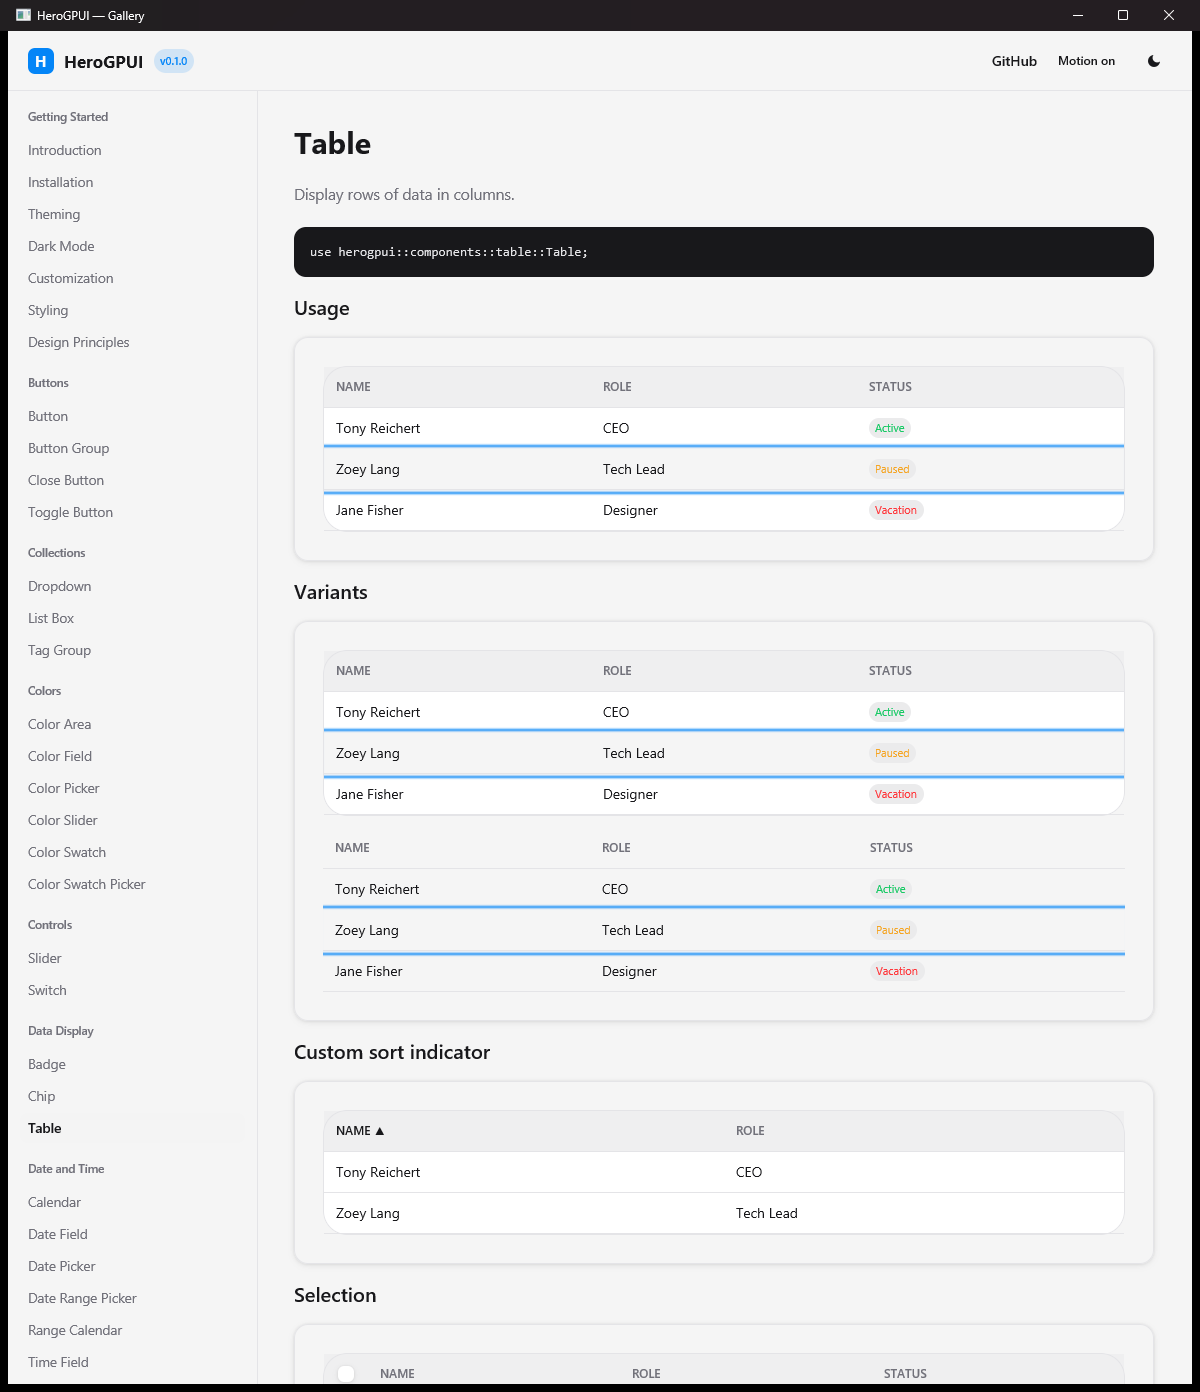
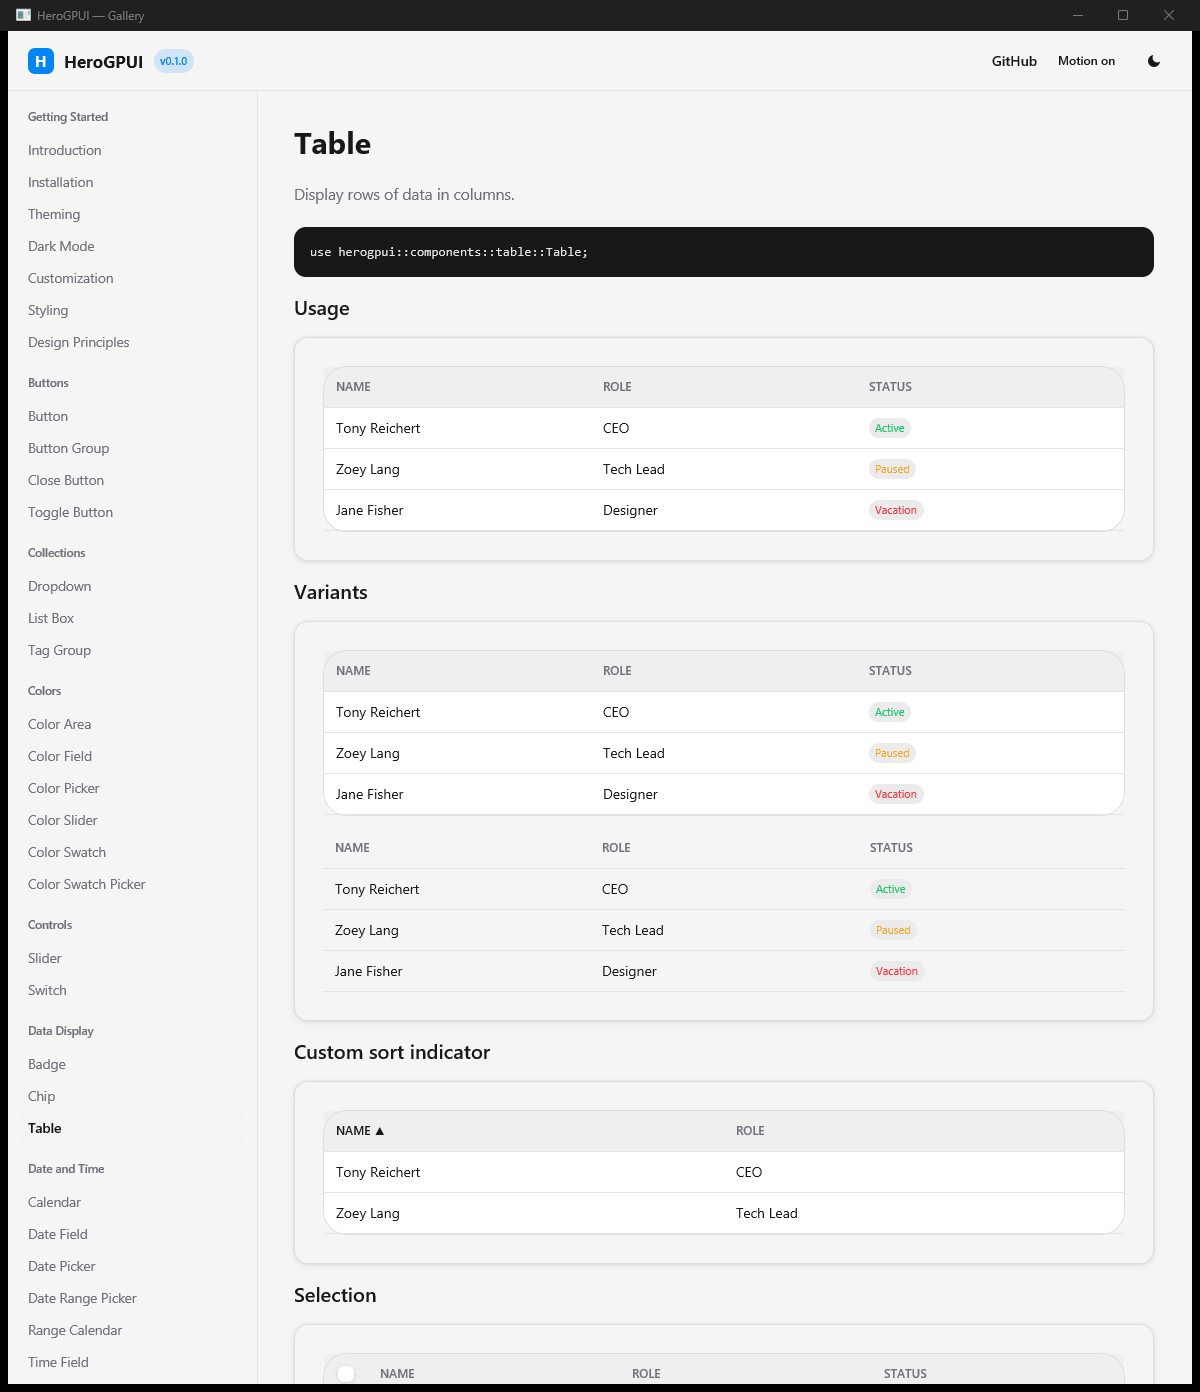
Sort a table from the keyboard, and ring its cells the way v3 does
A sortable column header had a click listener and no focus handle, so sorting
was mouse-only: gpui fires a *focused* element's click listeners for Enter and
Space, and there was nothing to focus. Each sortable header is a tab stop now.
v3's grid roves one stop across its cells; this port gives each sortable header
its own, which is the part that matters.

The ring exposed the other half. `status-focused` draws *outside* the element,
and the first attempt filled the whole header solid accent -- a header cell has
no background of its own, so the ring's spread showed straight through it. v3
does not use `status-focused` here: `.table__cell` and `.table__column` are
`shadow-[inset_0_0_0_2px_var(--focus)]` with `rounded-lg`, and a focused row
draws that ring split across its cells (three-sided on the first and last) so it
reads as one continuous outline inside the row. gpui has no inset shadow and a
border would move the content, so `util::inset_focus_ring` is an absolutely
positioned 2px border to hang inside the element. The focused row uses it too,
which is what v3 draws and what the row's outset ring was not.

Verified by driving the app: Enter on the focused Name header moves the demo
from "Sorted by Name Ascending" to Descending with a proper inset ring, and
tabbing into the first table still rings the row the cursor is on.

diff --git a/crates/herogpui-components/src/table.rs b/crates/herogpui-components/src/table.rs
@@ -542,6 +542,35 @@ impl RenderOnce for Table {
             .read(cx)
             .filter(|_| table_focus.is_focused(window) && crate::util::focus_visible(cx));
 
+        // A sortable header had a click listener and no focus, so sorting was
+        // mouse-only. v3's grid roves one tab stop across its cells; this port
+        // gives each sortable header its own stop, which is the part that
+        // matters. Created before the theme: `use_keyed_state` takes `cx`
+        // mutably and `cx.colors()` holds a borrow.
+        let sortable = self.on_sort_change.is_some();
+        let sort_focus: Vec<Option<gpui::FocusHandle>> = self
+            .columns
+            .iter()
+            .map(|c| c.allows_sorting && sortable)
+            .collect::<Vec<_>>()
+            .into_iter()
+            .enumerate()
+            .map(|(i, is_sortable)| {
+                is_sortable.then(|| {
+                    crate::util::tab_stop_handle(
+                        gpui::ElementId::Name(format!("{}-sort-{i}-focus", self.id).into()),
+                        window,
+                        cx,
+                    )
+                })
+            })
+            .collect();
+        let ring_visible = crate::util::focus_visible(cx);
+        let sort_focused: Vec<bool> = sort_focus
+            .iter()
+            .map(|h| h.as_ref().is_some_and(|h| h.is_focused(window)) && ring_visible)
+            .collect();
+
         let resizable = self.columns.iter().any(|c| c.allows_resizing);
         let colors = cx.colors();
         // Copies of the tokens the tail needs: the row builder borrows `cx`
@@ -673,7 +702,7 @@ impl RenderOnce for Table {
                     let next =
                         SortDescriptor::next(self.sort_descriptor.as_ref(), column.label.clone());
                     let hover = colors.default.soft();
-                    gpui::div()
+                    let header_cell = gpui::div()
                         .id(gpui::ElementId::Name(
                             format!("table-sort-{}", column.label).into(),
                         ))
@@ -681,8 +710,21 @@ impl RenderOnce for Table {
                         .flex()
                         .cursor_pointer()
                         .hover(move |s| s.bg(hover))
+                        // The focus is what makes Enter and Space sort: gpui
+                        // fires a *focused* element's click listeners for them.
+                        .when_some(sort_focus[column_index].as_ref(), |c, handle| {
+                            c.track_focus(handle)
+                        })
                         .on_click(move |_, window, cx| cb(next.clone(), window, cx))
-                        .child(cell)
+                        .child(cell);
+                    // `.table__column` rings *inside* itself: the next column
+                    // is flush against this one, and a ring drawn outside bled
+                    // through the transparent cell and filled it.
+                    header_cell
+                        .relative()
+                        .when(sort_focused[column_index], |c| {
+                            c.child(crate::util::inset_focus_ring(cx))
+                        })
                         .into_any_element()
                 }
                 _ => cell.into_any_element(),
@@ -1132,9 +1174,14 @@ impl RowCtx {
                 .on_click(move |ev, w, cx| cb(i, ev, w, cx));
         }
 
-        // `.table__row` takes `status-focused` on the row the keyboard is on -- a
-        // ring, since a border would move every cell in it.
-        crate::util::with_focus_ring(row, self.cursor == Some(i), true, Vec::new(), cx)
+        // v3 rings the focused row *inside* itself: the cells each carry an
+        // inset shadow, with the first and last three-sided, so the row reads as
+        // one continuous outline. One overlay across the row is the same picture
+        // and needs no per-cell cases.
+        row.relative()
+            .when(self.cursor == Some(i), |r| {
+                r.child(crate::util::inset_focus_ring(cx))
+            })
             .into_any_element()
     }
 }

diff --git a/.shots/behaviour_audit.py b/.shots/behaviour_audit.py
@@ -98,6 +98,10 @@ TEXT_KEYS = ('Input', 'TextArea', 'TextField')
 # with the mouse.
 POINTER_CARET = ('Input', 'TextField', 'TextArea')
 
+# A sortable column header is a control: it had a click listener and no focus, so
+# sorting was mouse-only.
+SORT_KEYS = ('Table',)
+
 OVERLAY_DISMISS = (
     'Popover', 'Dropdown', 'Select', 'ComboBox', 'Autocomplete',
     'DatePicker', 'DateRangePicker', 'ColorPicker', 'Tooltip',
@@ -168,6 +172,7 @@ EVIDENCE = {
     ('Input', 'text-keys'): ('input.rs', r'fn word_target'),
     ('TextArea', 'text-keys'): ('input.rs', r'fn vertical_target'),
     ('TextField', 'text-keys'): ('input.rs', r'key_char'),
+    ('Table', 'sort-keys'): ('table.rs', r'sort_focus'),
     ('Input', 'pointer-caret'): ('input.rs', r'fn char_at_x'),
     ('TextField', 'pointer-caret'): ('input.rs', r'closest_index_for_x'),
     ('Accordion', 'activation'): ('accordion.rs', r'tab_stop_handle'),
@@ -230,11 +235,11 @@ def main():
     # every total.
     derived = dict.fromkeys(
         ARROW_NAV + REMOVE_KEY + OVERLAY_DISMISS + SPIN_KEYS + FOCUS_OPEN
-        + TEXT_KEYS + POINTER_CARET
+        + TEXT_KEYS + POINTER_CARET + SORT_KEYS
     )
     for page in derived:
         for claim in ('arrow-nav', 'remove-key', 'dismiss', 'spin-keys', 'focus-open',
-                      'text-keys', 'pointer-caret'):
+                      'text-keys', 'pointer-caret', 'sort-keys'):
             key = (page, claim)
             # A derived claim can be excused too, and the reason has to reach
             # the breakdown: reading only EVIDENCE skipped `TextArea`'s

diff --git a/crates/herogpui-components/src/util.rs b/crates/herogpui-components/src/util.rs
@@ -586,6 +586,29 @@ pub fn focus_ring_shadows(offset: bool, cx: &App) -> Vec<gpui::BoxShadow> {
     shadows
 }
 
+/// v3's *inset* focus ring, as an overlay to hang inside the focused element.
+///
+/// A table is the exception to `status-focused`: `.table__cell` and
+/// `.table__column` are `shadow-[inset_0_0_0_2px_var(--focus)]` with
+/// `rounded-lg`, and a focused row draws the same ring split across its cells so
+/// it reads as one continuous outline *inside* the row. An outset ring cannot
+/// work there -- the next cell is flush against it, so a ring drawn outside is
+/// either clipped or, on a transparent cell, bleeds through and fills it (a
+/// focused column header came out solid accent).
+///
+/// gpui has no inset shadow and a border would move the content, so the ring is
+/// an absolutely positioned child: it paints over the element and costs no
+/// layout. The parent needs `.relative()`.
+pub fn inset_focus_ring(cx: &App) -> Div {
+    let colors = cx.colors();
+    gpui::div()
+        .absolute()
+        .inset_0()
+        .border_2()
+        .border_color(colors.focus)
+        .rounded(key_radius(cx))
+}
+
 /// Applies the focus ring on top of whatever the element already casts.
 ///
 /// `base` is the element's own shadow list, because `shadow()` replaces rather

diff --git a/AGENTS.md b/AGENTS.md
@@ -655,6 +655,16 @@ v2 concepts that must **not** come back:
     bites the other way too: an element that has *both* a click listener and its
     own Enter handling does the thing twice, which is why the Select trigger
     keeps only the arrows and lets the click own the open and close.
+  - **A table rings *inside* itself.** `status-focused` is an outset ring, and a
+    table is v3's exception: `.table__cell` and `.table__column` are
+    `shadow-[inset_0_0_0_2px_var(--focus)]` with `rounded-lg`, and a focused row
+    draws the same ring split across its cells (three-sided on the first and
+    last) so it reads as one continuous outline. That is not a style choice — the
+    next cell is flush, so a ring drawn outside is either clipped or, on a cell
+    with no background of its own, bleeds *through* and fills it: a focused
+    sortable header came out solid accent. `util::inset_focus_ring` is an
+    absolutely-positioned 2px border to hang inside the element (gpui has no
+    inset shadow, and a real border would move the content).
   - **A disabled control must leave the tab order.** `track_focus` is what puts
     it in, so gate it: v3 gives a disabled control `pointer-events-none` and
     nothing to move, and a Tab that lands on a disabled calendar looks like the
